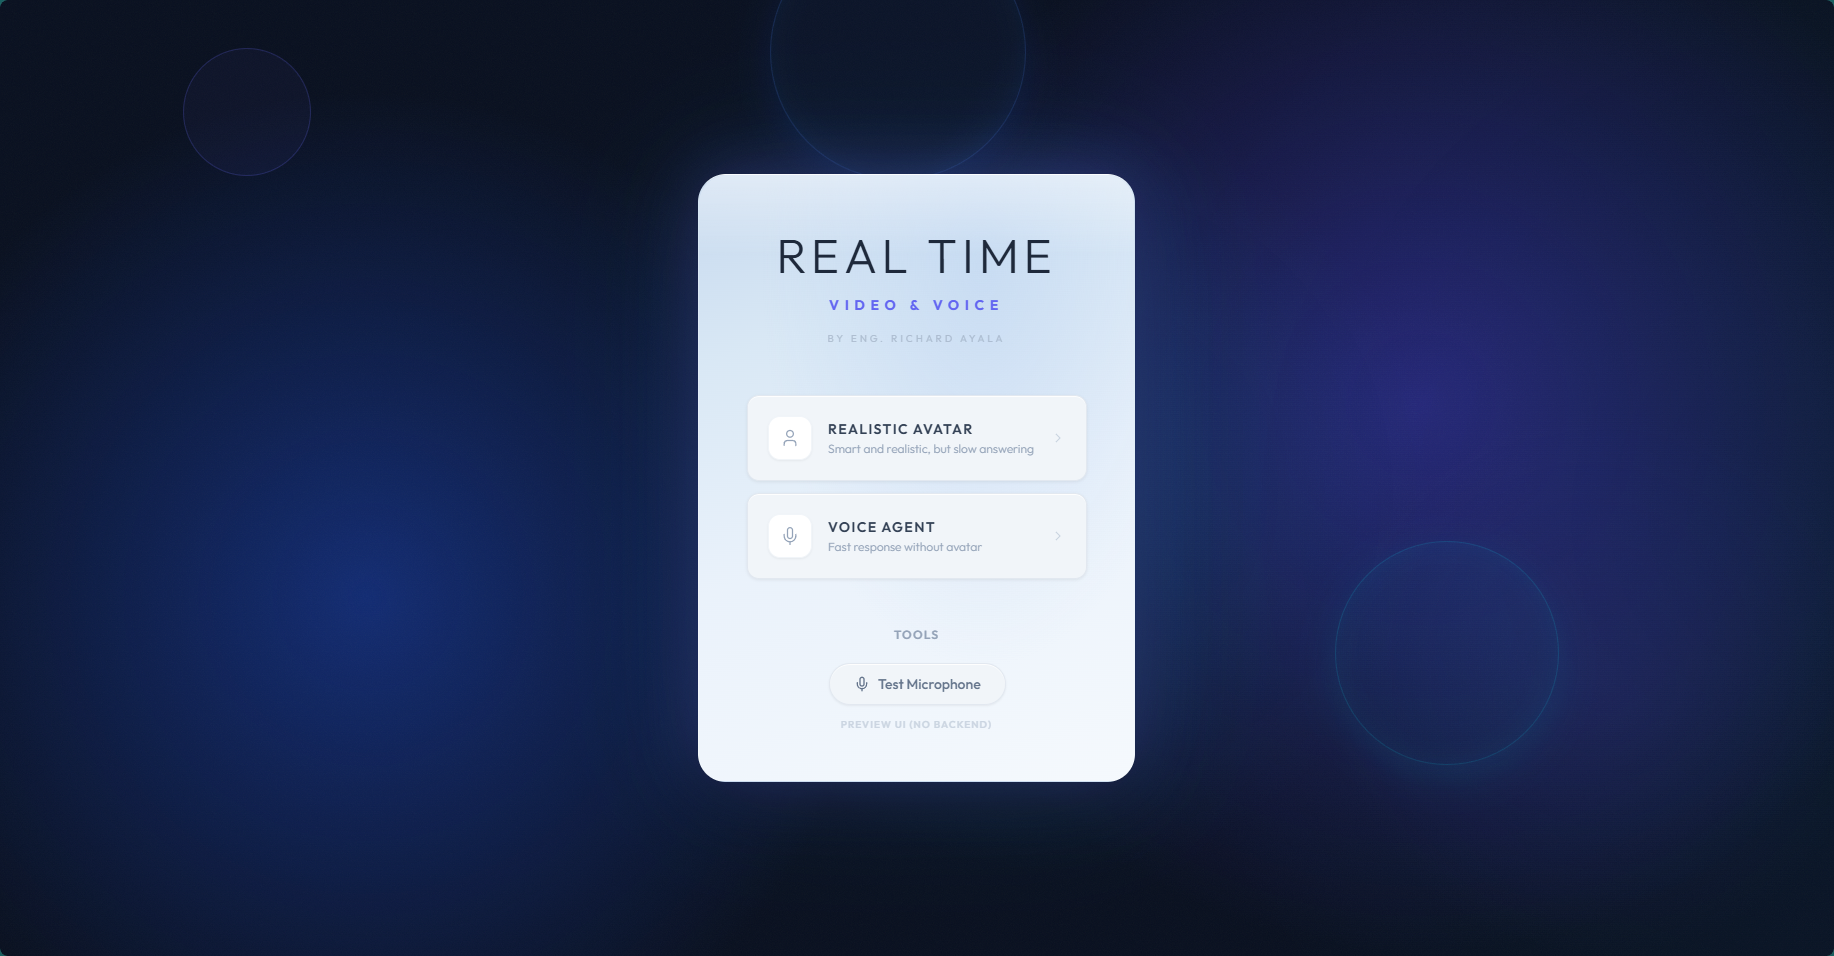
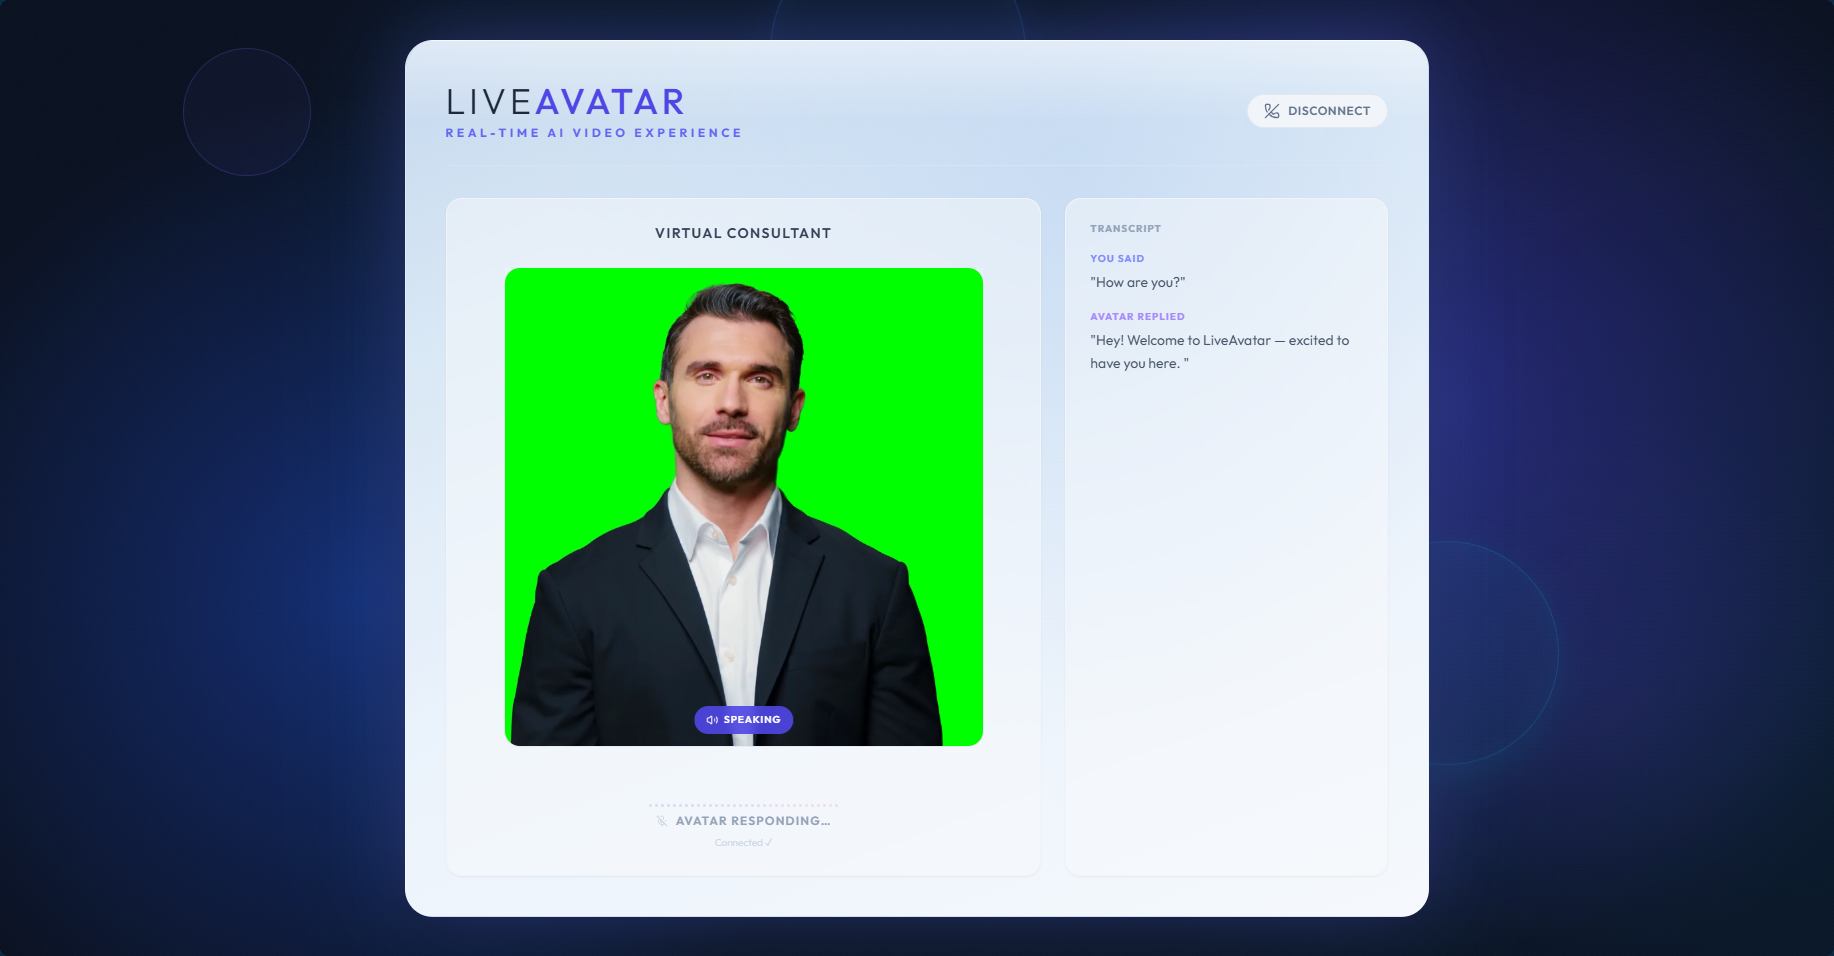
many little ui improvements

diff --git a/src/variants/v1/components/SkillsSection.tsx b/src/variants/v1/components/SkillsSection.tsx
@@ -1,7 +1,6 @@
 import { skills, skillLevelValues } from '@/data/skills';
 import { cn } from '@/lib/utils';
 import { motion } from 'framer-motion';
-import { useRef, useEffect, useState } from 'react';
 import {
   Radar,
   RadarChart,
@@ -20,55 +19,10 @@ const transformSkillsData = () => {
 };
 
 export const SkillsSection = () => {
-  const [chartRotation, setChartRotation] = useState(0);
-  const sectionRef = useRef<HTMLElement>(null);
-  const mouseXRef = useRef(0.5);
-  const rafRef = useRef<number | null>(null);
-
   const chartData = transformSkillsData();
-
-  useEffect(() => {
-    const section = sectionRef.current;
-    if (!section) return;
-
-    const handleMouseMove = (e: MouseEvent) => {
-      mouseXRef.current = e.clientX / window.innerWidth;
-    };
-
-    const animate = () => {
-      const targetRotation = (mouseXRef.current - 0.5) * 8;
-      setChartRotation((prev) => prev + (targetRotation - prev) * 0.05);
-      rafRef.current = requestAnimationFrame(animate);
-    };
-
-    const observer = new IntersectionObserver(
-      ([entry]) => {
-        if (entry.isIntersecting) {
-          window.addEventListener('mousemove', handleMouseMove);
-          rafRef.current = requestAnimationFrame(animate);
-        } else {
-          window.removeEventListener('mousemove', handleMouseMove);
-          if (rafRef.current !== null) {
-            cancelAnimationFrame(rafRef.current);
-            rafRef.current = null;
-          }
-        }
-      },
-      { threshold: 0.1 },
-    );
-
-    observer.observe(section);
-
-    return () => {
-      window.removeEventListener('mousemove', handleMouseMove);
-      observer.disconnect();
-      if (rafRef.current !== null) cancelAnimationFrame(rafRef.current);
-    };
-  }, []);
 
   return (
     <section
-      ref={sectionRef}
       id="skills"
       className={cn(
         'container mx-auto max-w-6xl px-4 py-16',
@@ -102,9 +56,6 @@ export const SkillsSection = () => {
         whileInView={{ opacity: 1, scale: 1 }}
         viewport={{ once: true, margin: '-50px' }}
         transition={{ duration: 0.6, delay: 0.2 }}
-        style={{
-          rotate: chartRotation,
-        }}
         className="mx-auto max-w-4xl"
       >
         <motion.div

diff --git a/src/components/chat/ChatLayout.tsx b/src/components/chat/ChatLayout.tsx
@@ -9,6 +9,7 @@ export const ChatLayout = () => {
     const [isHistoryOpen, setIsHistoryOpen] = useState(false);
     const [isTipsOpen, setIsTipsOpen] = useState(false);
     const [tipsHighlightTrigger, setTipsHighlightTrigger] = useState(0);
+    const [showBanner, setShowBanner] = useState(true);
 
     const handleOpenTipsAndHighlight = () => {
         setIsTipsOpen(true);
@@ -17,6 +18,33 @@ export const ChatLayout = () => {
 
     return (
         <div className="flex-1 flex w-full h-screen bg-gradient-to-br from-slate-50 via-white to-blue-50 relative overflow-hidden z-0">
+            {/* Under Construction Banner */}
+            <AnimatePresence>
+                {showBanner && (
+                    <motion.div
+                        initial={{ opacity: 0, y: -20 }}
+                        animate={{ opacity: 1, y: 0 }}
+                        exit={{ opacity: 0, y: -20 }}
+                        transition={{ duration: 0.3 }}
+                        className="absolute top-20 left-1/2 -translate-x-1/2 z-50 w-full max-w-xl px-4"
+                    >
+                        <div className="flex items-start gap-3 bg-amber-50 border border-amber-300 text-amber-900 rounded-lg px-4 py-3 shadow-md">
+                            <span className="text-amber-500 mt-0.5 flex-shrink-0">⚠</span>
+                            <p className="text-sm flex-1">
+                                <strong>Under construction.</strong> The backend is disabled. It is going to be an integration with <strong>n8n</strong>.
+                            </p>
+                            <button
+                                onClick={() => setShowBanner(false)}
+                                className="text-amber-500 hover:text-amber-700 flex-shrink-0 ml-1"
+                                aria-label="Dismiss"
+                            >
+                                <X size={16} />
+                            </button>
+                        </div>
+                    </motion.div>
+                )}
+            </AnimatePresence>
+
             {/* Modern Radial Gradients UI overlay */}
             <div
                 className="absolute inset-0 pointer-events-none z-[-1]"

diff --git a/src/components/chat/ChatHistory.tsx b/src/components/chat/ChatHistory.tsx
@@ -1,4 +1,5 @@
-import { X, Linkedin } from 'lucide-react';
+import { X, Linkedin, Home } from 'lucide-react';
+import { useNavigate } from 'react-router-dom';
 import { LINKEDIN_URL } from '../../config/constants';
 
 interface ChatHistoryProps {
@@ -6,6 +7,8 @@ interface ChatHistoryProps {
 }
 
 export const ChatHistory = ({ onClose }: ChatHistoryProps) => {
+    const navigate = useNavigate();
+
     // Dummy data for history
     const historyItems = [
         { id: 1, title: 'Discussion about Next.js' },
@@ -15,6 +18,15 @@ export const ChatHistory = ({ onClose }: ChatHistoryProps) => {
 
     return (
         <div className="h-full flex flex-col p-4 relative">
+            {/* Portfolio home link */}
+            <button
+                onClick={() => navigate('/')}
+                className="group w-full flex items-center gap-2 px-3 py-2.5 mb-6 rounded-xl bg-white/5 hover:bg-white/90 border border-white/5 hover:border-white transition-all duration-200 hover:shadow-lg hover:scale-[1.01]"
+            >
+                <Home size={15} className="text-primary group-hover:text-primary flex-shrink-0" />
+                <span className="text-sm font-medium text-darkText/90 group-hover:text-darkText transition-colors">Go Home</span>
+            </button>
+
             <div className="flex justify-between items-center mb-4">
                 <h2 className="text-sm uppercase font-bold text-darkText pl-3">Chat History</h2>
                 {/* Only show close button on mobile */}

diff --git a/src/data/projects.ts b/src/data/projects.ts
@@ -21,8 +21,8 @@ export const projects: Project[] = [
     demoUrl: '/real-time',
     githubUrl: '',
     gallery: [
-      'https://via.placeholder.com/800x450/001d3d/fefae0?text=Avatar+Interaction',
-      'https://via.placeholder.com/800x450/001d3d/fefae0?text=Voice+Agent',
+      '/projects/real-time-1.png',
+      '/projects/real-time-2.png',
     ]
   },
   {

diff --git a/index.html b/index.html
@@ -2,7 +2,7 @@
 <html lang="en">
   <head>
     <meta charset="UTF-8" />
-    <link rel="icon" type="image/svg+xml" href="/vite.svg" />
+    <link rel="icon" type="image/x-icon" href="/icons/icon.svg" />
     <meta name="viewport" content="width=device-width, initial-scale=1.0" />
     <title>portfolio-web</title>
   </head>

diff --git a/src/variants/v1/components/HeroSection.tsx b/src/variants/v1/components/HeroSection.tsx
@@ -80,9 +80,9 @@ export const HeroSection = ({
 
       hero.style.backgroundImage = [
         `radial-gradient(circle at 95% 15%, rgba(94, 152, 198, 0.20) 0%, rgba(185, 216, 242, 0) ${rightSizeRef.current.toFixed(1)}%)`,
+        `radial-gradient(circle at 5% ${leftYRef.current.toFixed(1)}%, rgba(204, 18, 191, 0.35) 0%, rgba(131, 198, 255, 0.01) ${leftSizeRef.current.toFixed(1)}%)`,
         // `radial-gradient(circle at 95% 15%, rgba(94, 152, 198, 0.20) 0%, rgba(185, 216, 242, 0) ${rightSizeRef.current.toFixed(1)}%)`,
         // `radial-gradient(circle at 5% ${leftYRef.current.toFixed(1)}%, rgba(204, 18, 191, 0.35) 0%, rgba(131, 198, 255, 0.01) ${leftSizeRef.current.toFixed(1)}%)`,
-        `radial-gradient(circle at 5% ${leftYRef.current.toFixed(1)}%, rgba(204, 18, 191, 0.35) 0%, rgba(131, 198, 255, 0.01) ${leftSizeRef.current.toFixed(1)}%)`,
         'linear-gradient(to bottom right, #001f3d 50%, #061632 100%)',
       ].join(', ');
 